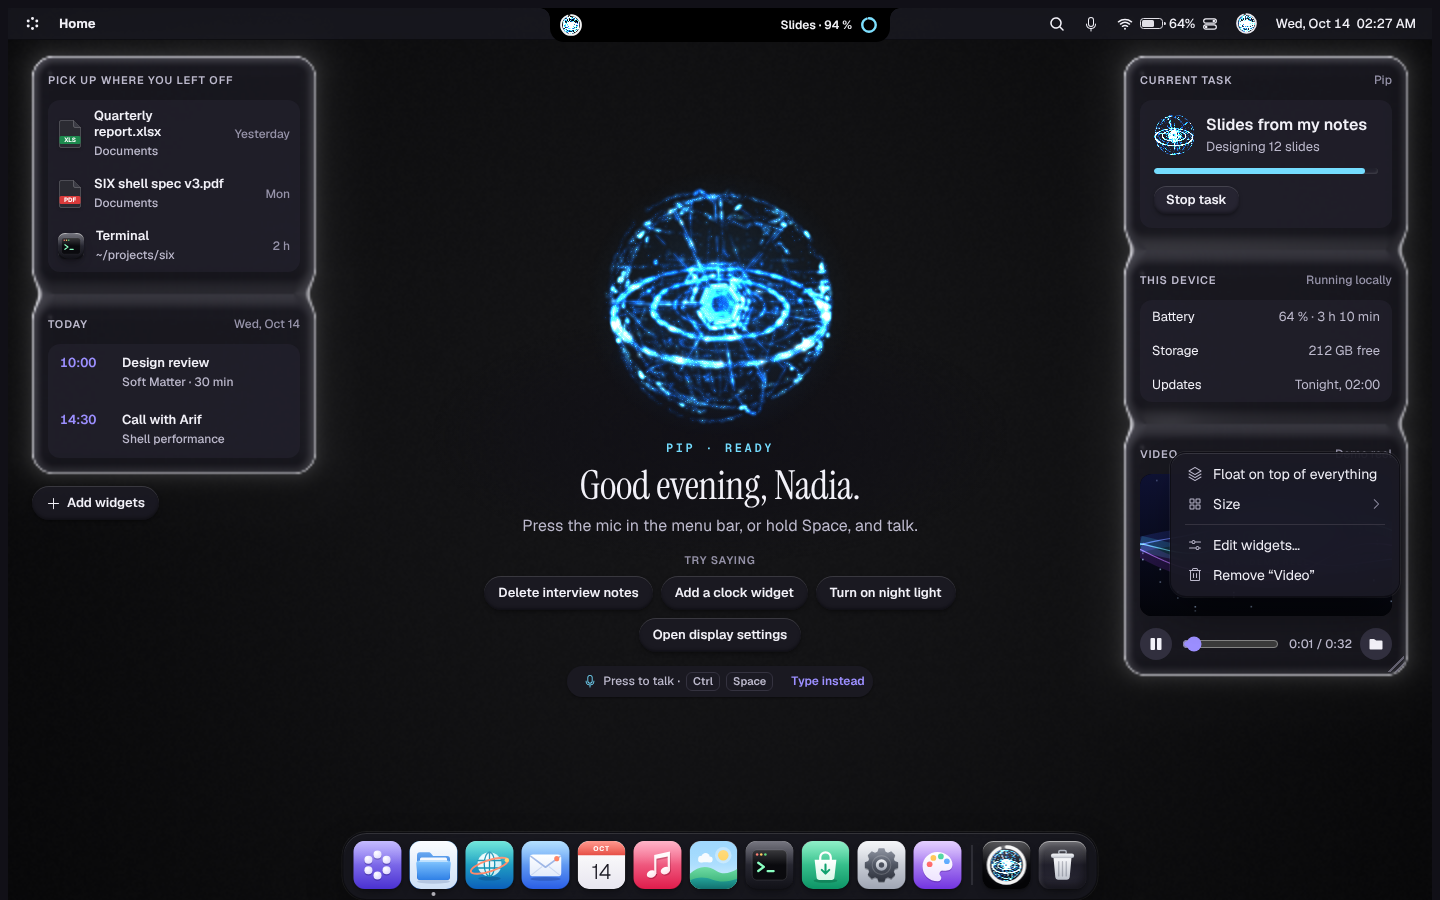
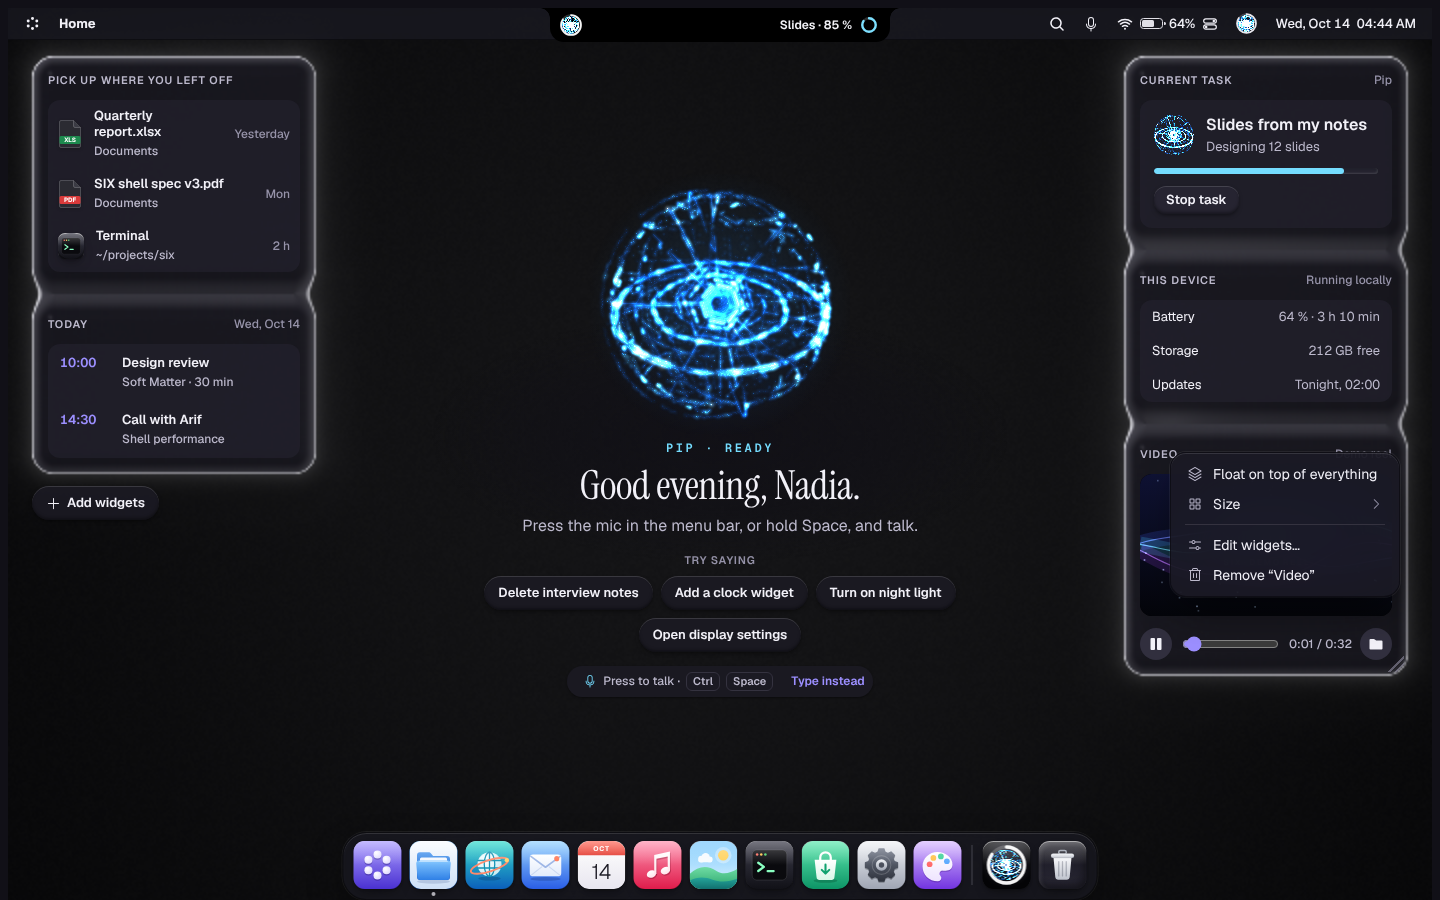
Show the Pip notch only while Pip is working
The notch no longer sits idle at the top of the screen. It slides down
out of the top edge only while Pip has something in progress (a task,
a task that just finished, a request it is working on, or a conversation
over your windows) and slides back up into the edge when Pip is done.
Music and other non-Pip activity no longer bring it up.

Claude-Session: https://claude.ai/code/session_01Vtxi7RyoKrSpBE2mZioMFq

diff --git a/design/prototype/index.html b/design/prototype/index.html
@@ -619,14 +619,16 @@ input[type="range"] { flex: 1; accent-color: var(--c-accent); height: var(--cont
   --isl-h: calc(var(--menubar-h) + 2px); position: absolute; top: 0; left: 50%; z-index: 958; width: 190px; height: var(--isl-h);
   transform: translateX(-50%); background: #000; color: #f3f3f7; border-radius: 0 0 14px 14px;
   --c-text: #f3f3f7; --c-text-2: #b8b8c6; --c-text-3: #8c8c9c; --c-surface: #1c1c22; --c-surface-2: #141418; --c-surface-3: #26262e; --c-line: rgba(255,255,255,0.1); --c-line-strong: rgba(255,255,255,0.18);
-  transition: width 460ms var(--ease-spring), height 460ms var(--ease-spring), border-radius 460ms var(--ease-spring), box-shadow 300ms var(--ease-out);
+  transition: width 460ms var(--ease-spring), height 460ms var(--ease-spring), border-radius 460ms var(--ease-spring), box-shadow 300ms var(--ease-out), opacity 160ms var(--ease-out);
 }
 #island[data-mode="expanded"] { border-radius: 0 0 28px 28px; box-shadow: 0 20px 44px -12px rgba(0, 0, 0, 0.55); transition-timing-function: var(--ease-detent); transition-duration: 560ms; }
 #island[data-mode="compact"] { transition-timing-function: var(--ease-detent); }
 #island::before, #island::after { content: ""; position: absolute; top: 0; width: 10px; height: 10px; pointer-events: none; }
 #island::before { right: 100%; background: radial-gradient(circle at 0 100%, transparent 9.5px, #000 10px); }
 #island::after { left: 100%; background: radial-gradient(circle at 100% 100%, transparent 9.5px, #000 10px); }
-#island:has(.isl-hit:hover)[data-mode="idle"] { width: 206px !important; height: calc(var(--isl-h) + 4px) !important; }
+#island[data-mode="hidden"] { height: 0; opacity: 0; pointer-events: none; transition: width 320ms var(--ease-spring), height 320ms var(--ease-spring), opacity 200ms var(--ease-in) 120ms; }
+#island[data-mode="hidden"]::before, #island[data-mode="hidden"]::after { opacity: 0; }
+#island:has(.isl-hit:hover)[data-mode="compact"] { height: calc(var(--isl-h) + 3px) !important; }
 .isl-clip { position: absolute; inset: 0; overflow: hidden; border-radius: inherit; }
 .isl-hit { position: absolute; inset: 0; border: 0; background: transparent; border-radius: inherit; cursor: pointer; }
 .isl-hit:focus-visible { outline: 2px solid var(--c-focus); outline-offset: 2px; }
@@ -678,7 +680,6 @@ input[type="range"] { flex: 1; accent-color: var(--c-accent); height: var(--cont
 .isl-music .isl-art { width: 40px; height: 40px; border-radius: 10px; flex: none; }
 .isl-music .isl-row { flex: 1; }
 .isl-round { width: 32px; height: 32px; border: 0; border-radius: 50%; background: rgba(255, 255, 255, 0.12); color: #fff; font: 14px/1 var(--font-ui); display: grid; place-items: center; flex: none; }
-@media (max-width: 720px) { #island[data-mode="idle"] { opacity: 0; pointer-events: none; } }
 /* floating widgets: above every window, in glass */
 #pins { position: absolute; inset: 0; z-index: 945; pointer-events: none; }
 #pins > .widget { pointer-events: auto; }
@@ -2174,7 +2175,7 @@ button.cal-cell:hover { background: var(--c-surface-3); }
     </div>
   </header>
   <!-- the Pip notch: Pip while you work in other apps; grows with what's running -->
-  <div id="island" data-mode="idle">
+  <div id="island" data-mode="hidden" aria-hidden="true">
     <div class="isl-clip">
       <div class="isl-compact" aria-hidden="true">
         <span class="isl-l" data-show="orb"><canvas class="dotorb" data-follow="1" data-state="ready"></canvas><span class="isl-art"></span></span>
@@ -6277,18 +6278,20 @@ Current prototype state: ${stateSummary()}`;
   /* ── The Pip notch ─────────────────────────────────────────────────
      A black notch at the top centre of the screen, where Pip lives while you work in other apps.
      It grows to show what's going on and shrinks back when it's done, on springs:
-       idle      the notch alone; click it to talk to Pip
-       compact   it widens with a live activity: Pip's task and its progress ring, music that's
-                 playing, or Pip working on something you asked in the Pip app
+       hidden    nothing for Pip to show: there's no notch at all
+       compact   it slides down from the top edge with what Pip is doing: its task and a progress
+                 ring, a task that just finished, or a request it's working on
        expanded  it drops down into a panel: talking to Pip over your windows (what you said,
                  Pip's reply, review cards), or the details of an activity when you click it */
-  const isl = { el: $('#island'), mode: 'idle', voice: false, open: false, doneAt: 0, doneSeen: false, waveT: 0 };
+  const isl = { el: $('#island'), mode: 'hidden', voice: false, open: false, doneAt: 0, doneSeen: false, waveT: 0 };
   const islMusic = () => { const m = W_KINDS.music.el; return m && widgetEls.includes(m) && m._playing?.() ? m : null; };
+  // the notch only appears while Pip is doing something: a task in progress (or just finished),
+  // a request it's working on, or a conversation over your windows. Otherwise it isn't there.
+  const PIP_BUSY = ['thinking', 'working', 'searching', 'asking', 'waiting', 'retrying', 'compacting', 'speaking'];
   function islActivity() {
     if (taskLive && taskPct < 100) return 'task';
     if (isl.doneAt && Date.now() - isl.doneAt < 6000) return 'done';
-    if (islMusic()) return 'music';
-    if (!isl.voice && topVisible() && !['ready', 'resting', 'complete', 'cancelled'].includes(pipNow)) return 'pip';
+    if (!isl.voice && PIP_BUSY.includes(pipNow)) return 'pip';
     return null;
   }
   function islSize() {
@@ -6296,7 +6299,7 @@ Current prototype state: ${stateSummary()}`;
     if (m === 'expanded') {
       el.style.width = Math.min(440, desk.clientWidth - 16) + 'px';
       el.style.height = Math.max(64, Math.ceil($('.isl-body', el).scrollHeight)) + 'px';
-    } else { el.style.width = (m === 'compact' ? Math.min(340, desk.clientWidth - 16) : 190) + 'px'; el.style.height = ''; }
+    } else { el.style.width = (m === 'compact' ? Math.min(340, desk.clientWidth - 16) : 150) + 'px'; el.style.height = ''; }
   }
   function islSync() {
     if (!isl.el) return;
@@ -6321,11 +6324,12 @@ Current prototype state: ${stateSummary()}`;
     }
     $('.isl-music', el).hidden = !mus;
     if (mus) { const tr = mus._track(); $('#islTrack').textContent = tr.t; $('#islArtist').textContent = tr.a; $('.isl-music .isl-art', el).style.background = tr.g; }
-    const mode = isl.voice || (isl.open && act) ? 'expanded' : act ? 'compact' : 'idle';
+    const mode = isl.voice || (isl.open && act) ? 'expanded' : act ? 'compact' : 'hidden';
     if (!act && !isl.voice) isl.open = false;
     if (mode !== isl.mode) {
       isl.mode = mode; el.dataset.mode = mode;
-      $('#islHit').setAttribute('aria-label', mode === 'idle' ? 'Pip. Click to talk' : mode === 'compact' ? 'Show what’s running' : 'Pip');
+      $('#islHit').setAttribute('aria-label', mode === 'compact' ? 'Show what Pip is doing' : 'Pip');
+      isl.el.setAttribute('aria-hidden', mode === 'hidden');
     }
     islSize();
   }
@@ -6344,8 +6348,7 @@ Current prototype state: ${stateSummary()}`;
   }, 90);
   setInterval(islSync, 1000);   // task progress and music
   $('#islHit').addEventListener('click', () => {
-    if (isl.mode === 'idle') startListening();
-    else if (isl.mode === 'compact') { isl.open = true; islSync(); }
+    if (isl.mode === 'compact') { isl.open = true; islSync(); }
   });
   $('#islClose').addEventListener('click', () => { if (isl.voice) { if (voice.on) stopListening(); if (voice.pending) voice.pending.no(); isl.voice = false; } isl.open = false; islSync(); });
   $('#islTaskStop').addEventListener('click', () => $('#taskStop').click());

diff --git a/design/guide/09-shell.md b/design/guide/09-shell.md
@@ -57,22 +57,23 @@ extends to the screen edge.
 ## The Pip notch
 
 A black notch at the top centre of the screen, in both themes, flat against the edge with concave
-"ears", like a laptop's camera notch. It is where Pip lives while you work in other apps, and it
-grows to show what's going on, on springs, then shrinks back when it's done.
+"ears", like a laptop's camera notch. **It only exists while Pip is working:** it slides down from
+the top edge when Pip has something in progress, grows to show it, and slides back up into the
+edge when Pip is done. With nothing in progress there is no notch at all.
 
 | Size | When | What it shows |
 |---|---|---|
-| **Idle** | Nothing is running | The notch alone. Click it to talk to Pip; it grows a little under the pointer |
-| **Compact** | Something is running | It widens: on the left Pip's orb (or the album art), on the right the activity: Pip's task with a progress ring ("Slides · 46 %"), music with a moving equaliser, "Slides are ready" for a few seconds when a task finishes, or what Pip is doing for a request you typed in the Pip app |
-| **Expanded** | You talk to Pip with windows open, or click the compact notch | It drops down into a panel: Pip's state and source ("Asking · waiting for your review", "on this device"), a voice wave, what you said, Pip's reply and review cards; below that the running task (with **Stop task**) and the music (play/pause, next) |
+| **Hidden** | Pip isn't doing anything (music playing, timers and other apps don't count) | Nothing: the menu bar is clear |
+| **Compact** | Pip is working | It slides down: on the left Pip's orb, on the right what Pip is doing: its task with a progress ring ("Slides · 46 %"), "Slides are ready" for a few seconds when a task finishes, or the request it's working on ("searching Documents", "asking Claude"), including ones typed in the Pip app |
+| **Expanded** | You talk to Pip with windows open, or click the compact notch | It drops down into a panel: Pip's state and source ("Asking · waiting for your review", "on this device"), a voice wave, what you said, Pip's reply and review cards; below that the running task (with **Stop task**) and, if music is playing, its controls (play/pause, next) |
 
 The voice panel closes 6 s after Pip answers (longer while a review waits), or at once with
 `Esc` or ×; a click outside closes an activity panel. Right-click the notch for *Talk to Pip*,
-*Open the Pip app* and Pip's settings. On narrow screens the idle notch is hidden; activities and
-the voice panel still appear.
+*Open the Pip app* and Pip's settings. It appears at every screen size.
 
 | Moment | Motion |
 |---|---|
+| Appears | Slides down out of the top edge, its height growing from nothing on the detent spring; leaving, it slides back up into the edge (320 ms) and fades as it goes |
 | Grows (compact, expanded) | Width and height on the detent spring, so it lands with a hint of overshoot (460–560 ms); the bottom corners round out from 14 to 28 px |
 | Contents arrive | Fade in with a 4–6 px focus pull after the shape has started moving (140 ms later); the panel's contents scale up from 94 % |
 | Shrinks | Contents leave first (140 ms, ease-in), then the shape closes on the precise spring |

diff --git a/design/README.md b/design/README.md
@@ -14,7 +14,7 @@ one setting away), with Settings, Files, Software and Calendar as the system app
 
 | | |
 |---|---|
-| **Try it** | Open [`prototype/index.html`](prototype/index.html) in a browser. Home is voice only: press the mic in the menu bar, click Pip, hold Space or press `Ctrl + Space`, or click a **Try saying** example. Drag Pip anywhere on home, or right-click it to hide it. With windows open, Pip talks from the **notch** at the top centre, which also shows the running task and music. Right-click anything for its menu, like Windows; right-click a widget to make it **float** over every app; add the **Video** widget and drag its corner to resize it; Settings › Pip & voice sets its look and colour (in previews without a microphone Pip hears sample requests). Try "delete interview notes" for a review card you can answer by voice. Click the Pip icon at the top right for the chat. Open **Settings** (search "dark" or "bangla"), **Files** (walk folders, move something to the Bin and put it back), **Software** and **Calendar** from the dock. Click **Add widgets**, drag one widget onto another to stack them, `Ctrl + K` for Six Search, and lock the screen from the Six menu |
+| **Try it** | Open [`prototype/index.html`](prototype/index.html) in a browser. Home is voice only: press the mic in the menu bar, click Pip, hold Space or press `Ctrl + Space`, or click a **Try saying** example. Drag Pip anywhere on home, or right-click it to hide it. With windows open, Pip talks from the **notch** at the top centre, which appears only while Pip is working (a task, a request, a conversation) and shows its progress. Right-click anything for its menu, like Windows; right-click a widget to make it **float** over every app; add the **Video** widget and drag its corner to resize it; Settings › Pip & voice sets its look and colour (in previews without a microphone Pip hears sample requests). Try "delete interview notes" for a review card you can answer by voice. Click the Pip icon at the top right for the chat. Open **Settings** (search "dark" or "bangla"), **Files** (walk folders, move something to the Bin and put it back), **Software** and **Calendar** from the dock. Click **Add widgets**, drag one widget onto another to stack them, `Ctrl + K` for Six Search, and lock the screen from the Six menu |
 | **Why** | [01 · Research](guide/01-research.md): the usability evidence behind every decision, with sources |
 | **Rules** | [02 · Principles](guide/02-principles.md) |
 

diff --git a/design/guide/08-motion.md b/design/guide/08-motion.md
@@ -61,7 +61,7 @@ Native toolkits use the spring parameters in `tokens.json`: **precise** (177 / 2
 | Stack: choose a card in the open stack | One motion: the chosen card travels to the top of the stack while the others tuck in behind it; nothing plays twice |
 | Widget added | It slides up into its column on the card spring and light crosses it |
 | Pages (Settings, Files) | The new page slides 18 px in from the side you travelled toward; back and up come from the left |
-| The Pip notch | Grows on the detent spring (460–560 ms) and its contents fade in with a focus pull after the shape starts moving; shrinks contents-first, then shape, on the precise spring. See [09](09-shell.md#the-pip-notch) |
+| The Pip notch | Appears only while Pip works: slides down out of the top edge and back up into it when Pip is done. Grows on the detent spring (460–560 ms) and its contents fade in with a focus pull after the shape starts moving; shrinks contents-first, then shape, on the precise spring. See [09](09-shell.md#the-pip-notch) |
 | Floating a widget | It lifts off home on a detent and catches the light; it follows the pointer exactly when dragged and settles on a detent when dropped |
 | Right-click menu | Scales up from where you clicked (from below, for dock menus) on the precise spring (360 ms); rows fade in 12 ms apart; submenus open after 140 ms of hover |
 | Pip's caption | Rise 10 px and scale from 97 %; Pip's reply arrives with a 6 px focus pull (blur to sharp), then fades away 9 s later |
